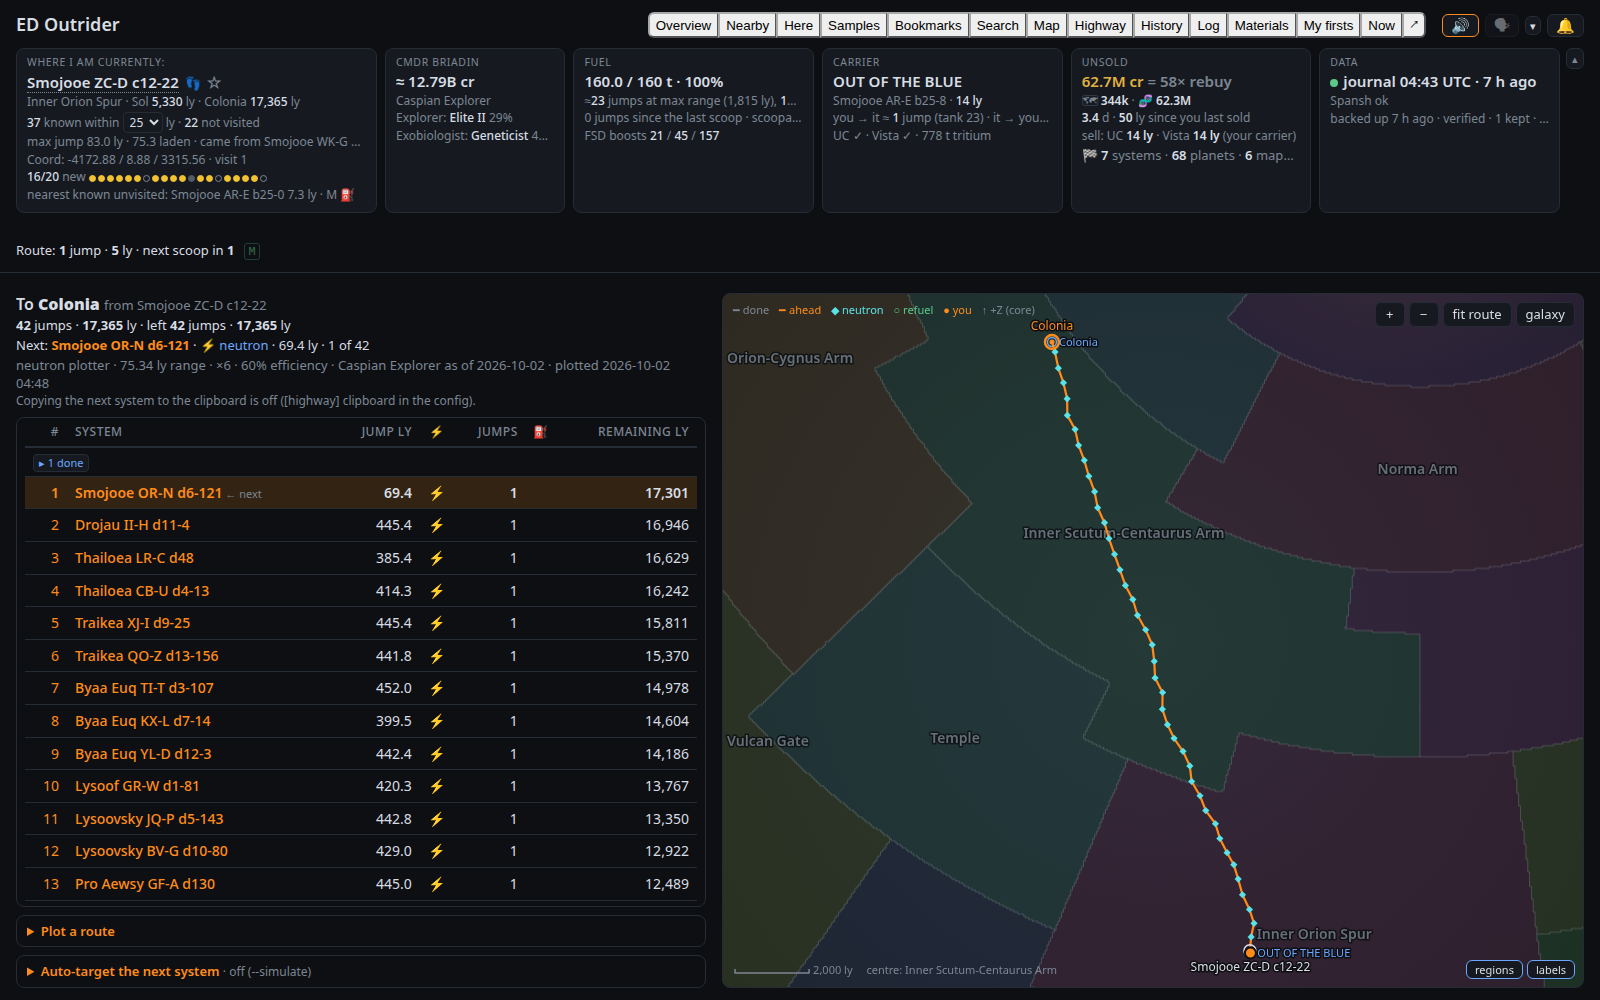
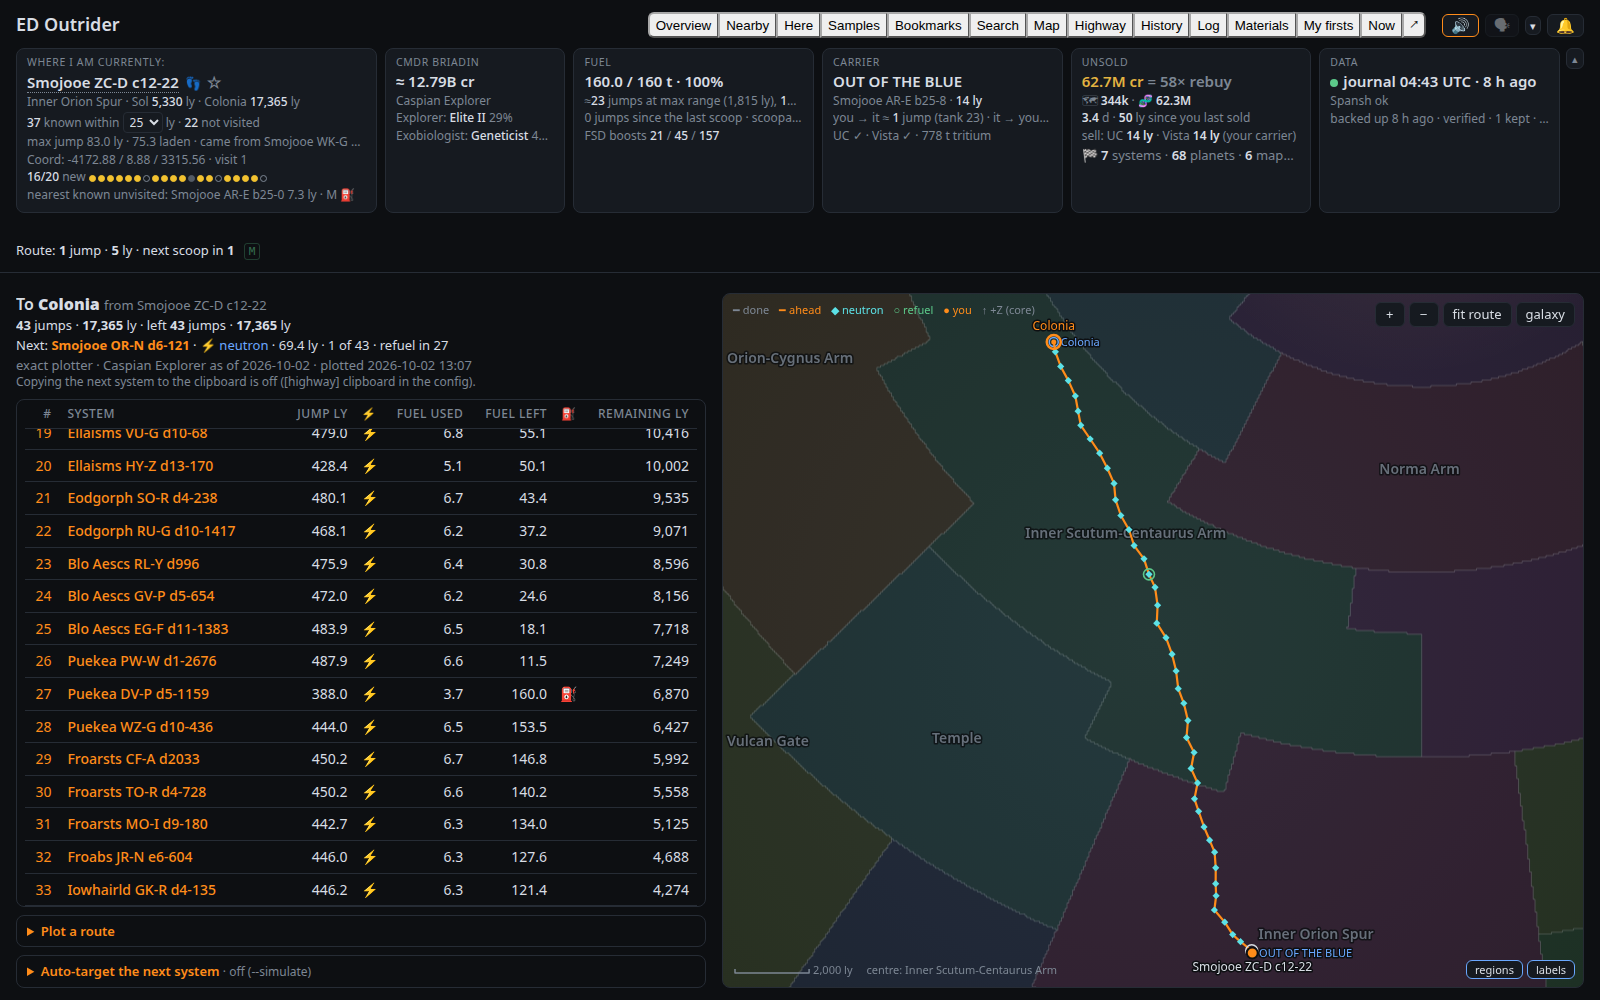
Highway screenshot with refuel stops; two unused lines removed
- The README's Highway screenshot now shows an exact-plotter route: fuel
  used and left per jump, a refuel stop in the list and its ring on the
  map. The old one was a neutron-plotter route, which has no refuel stops.
- Removed an unused import (outrider/bio.py) and a dead assignment
  (outrider/unsold.py); pyflakes is clean.

diff --git a/outrider/unsold.py b/outrider/unsold.py
@@ -456,7 +456,6 @@ def analyse(events, args):
     commanders = {c for _ts, c, _ev in events if c}
     deaths = []                     # [ts, resurrect option or None]
     bio_rows = bio_rows_with_bonus = 0
-    paid = base_plus_bonus = 0      # what the game actually paid vs what it valued
 
     for ts, cmdr, ev in events:
         if args.commander and cmdr and cmdr.lower() != args.commander.lower():

diff --git a/outrider/bio.py b/outrider/bio.py
@@ -68,7 +68,6 @@ import json
 import math
 import os
 import re
-import sys
 import urllib.request
 from glob import glob, escape as glob_escape
 

diff --git a/docs/CHANGELOG.md b/docs/CHANGELOG.md
@@ -2,6 +2,11 @@
 
 Newest first, one entry per commit.
 
+## 2026-10-02 · Highway screenshot with refuel stops; two unused lines removed
+- The README's Highway screenshot shows an exact-plotter route: fuel used and left per jump, a ⛽ refuel stop in the
+  list and its ring on the map (the old one was a neutron-plotter route, which has no refuel stops).
+- Removed an unused import (`outrider/bio.py`) and a dead assignment (`outrider/unsold.py`): pyflakes is clean.
+
 ## 2026-10-02 · Here's bio column stays readable; --simulate for screenshots
 - Here: a bio item ("Bacterium 3/3 ✓ 38.9M") no longer breaks inside itself, and a compact table shows a codex
   entry as 📖 ✦ (the name in its tooltip), so a body's row no longer grows to seven lines beside an open panel.
